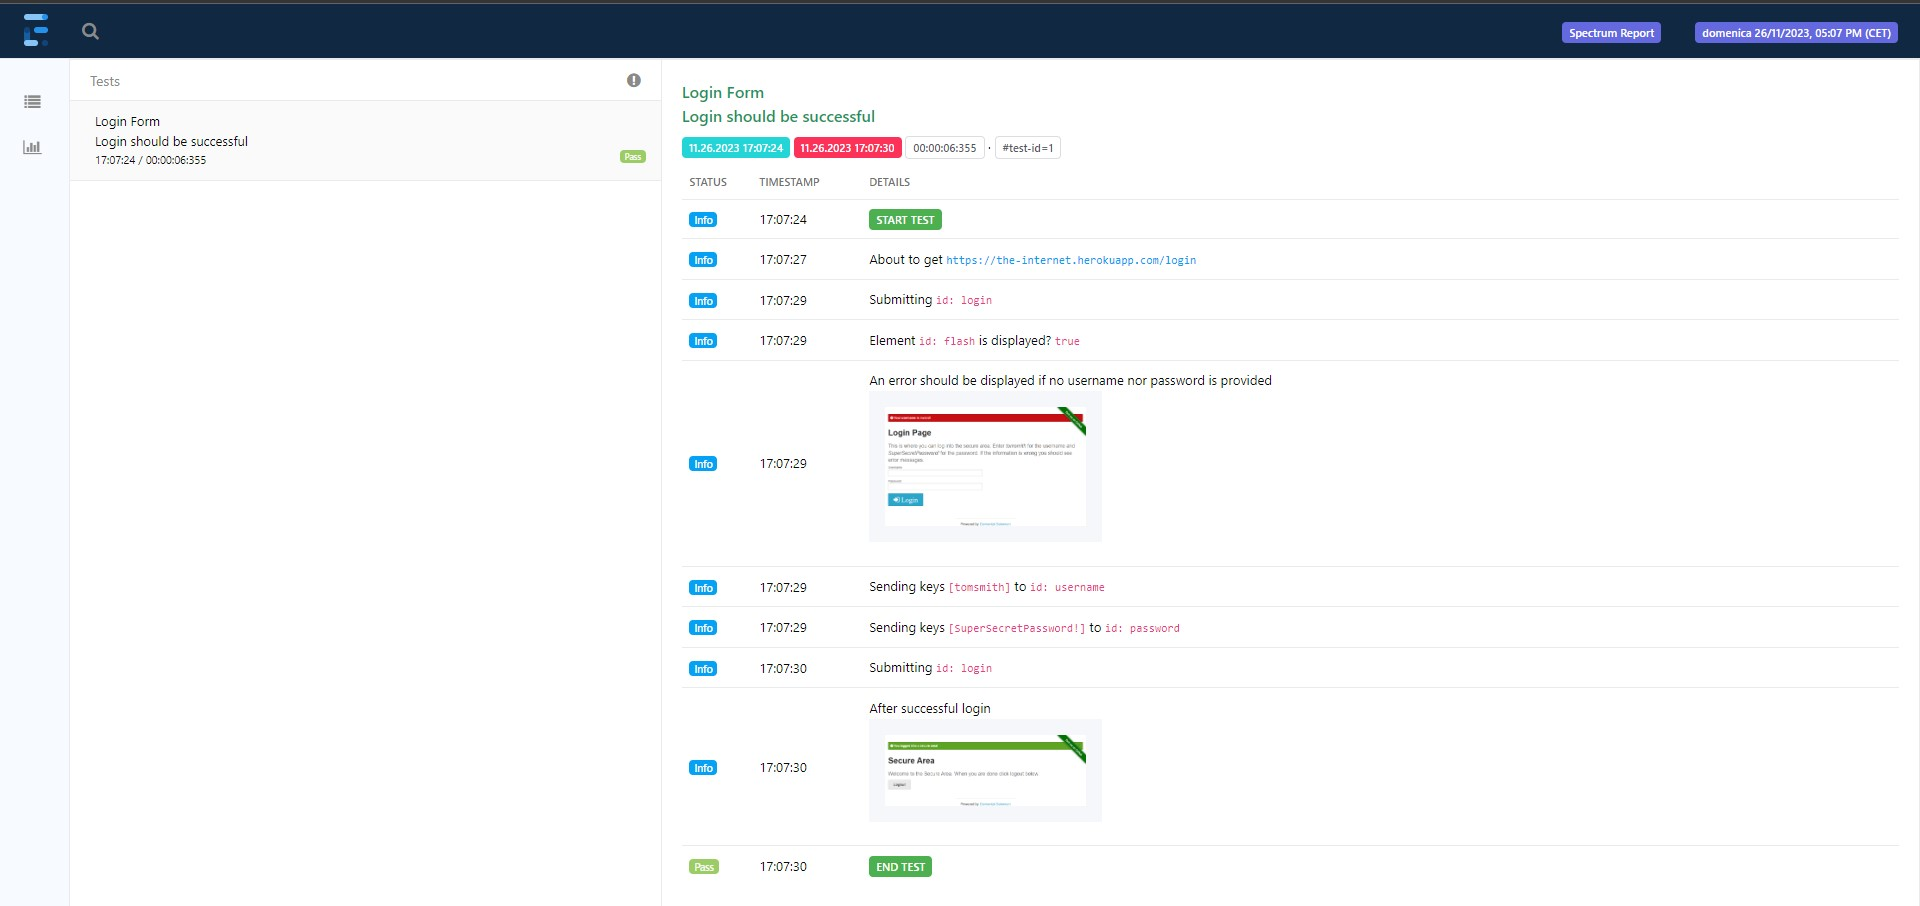
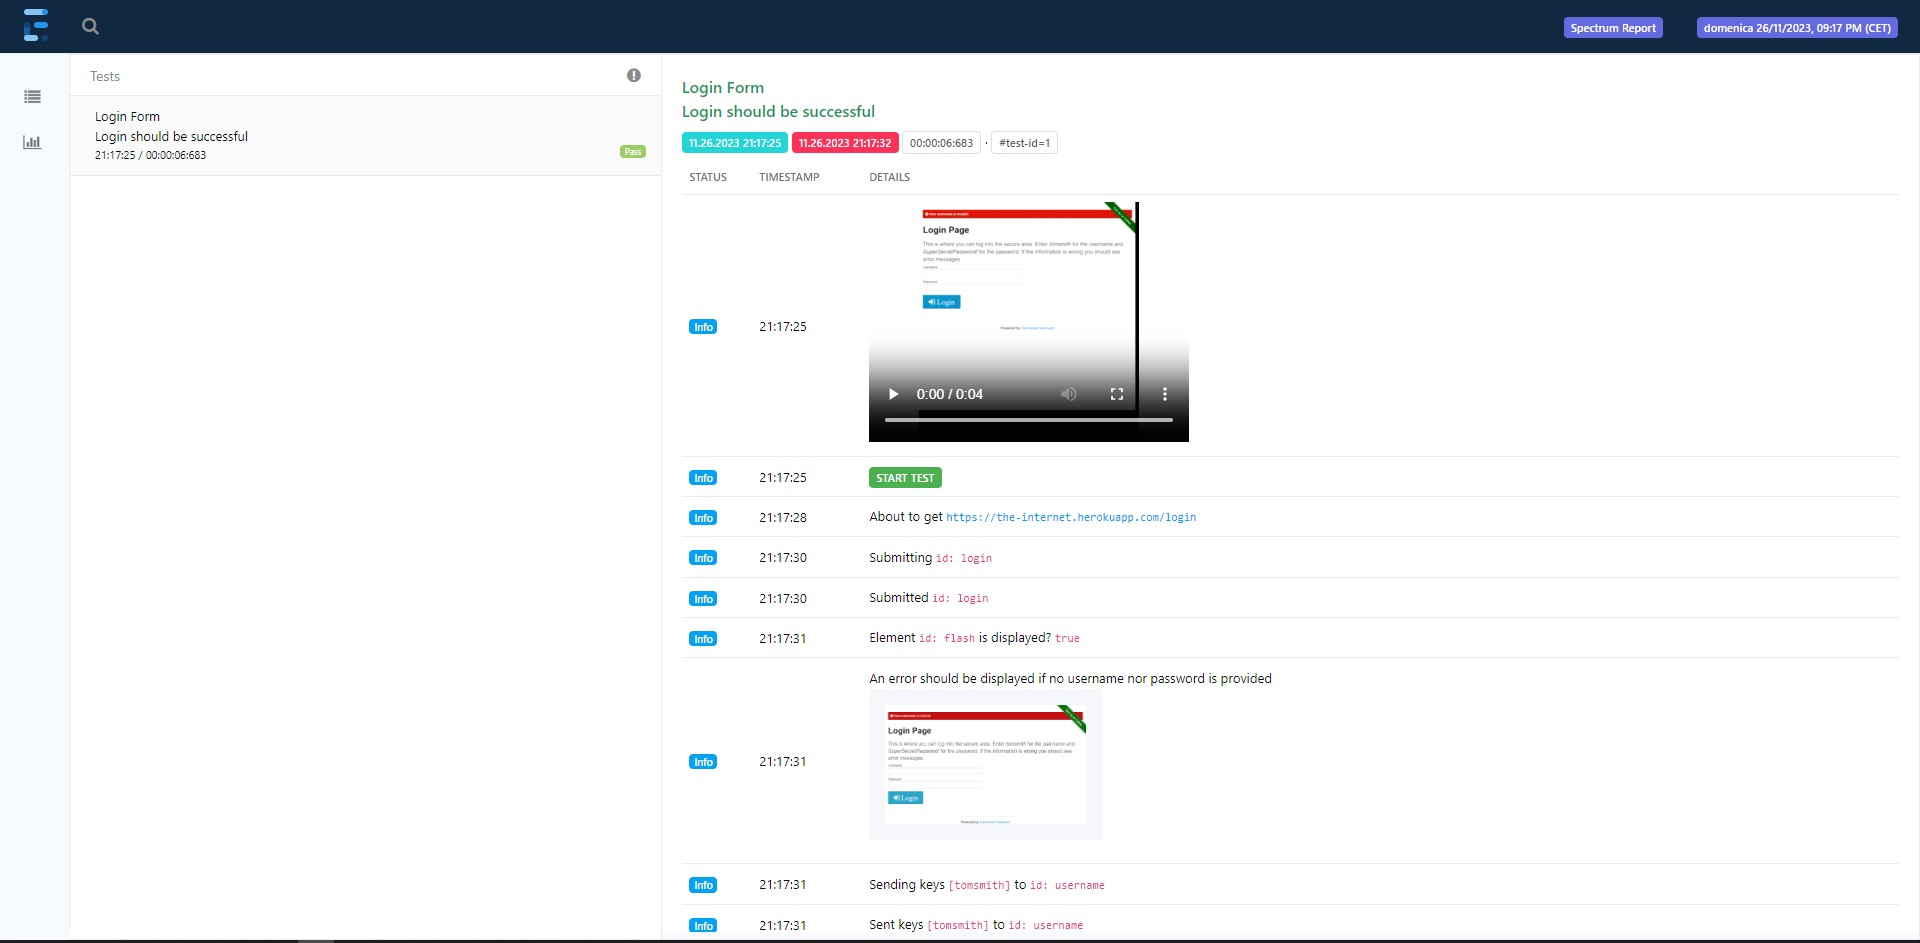
README with execution video

diff --git a/README.md b/README.md
@@ -52,15 +52,14 @@ https://github.com/giulong/spectrum/assets/27963644/f9339a81-ae55-453a-a013-7ad8
 
 > ⚠ JDK<br/>
 > Since Spectrum is compiled with a jdk 17, you need a [jdk 17+](https://jdk.java.net/java-se-ri/17) to be able to run your tests.
-> If you get an `Unsupported major.minor version` exception, the reason is that you're using an incompatible java version.
 
 1. Generate a new project leveraging the [Spectrum Archetype](https://mvnrepository.com/artifact/io.github.giulong/spectrum-archetype) via your IDE or by running this (replacing `<GROUP ID>`, `<ARTIFACT ID>`, `<VERSION>`, and `<DESTINATION>` with actual values):
 
     `mvn archetype:generate -DarchetypeGroupId=io.github.giulong -DarchetypeArtifactId=spectrum-archetype -DarchetypeVersion=LATEST -DinteractiveMode=false -DgroupId=<GROUP ID> -DartifactId=<ARTIFACT ID> -Dversion=<VERSION> -DoutputDirectory=<DESTINATION>`
 2. Run the `src/test/java/<PACKAGE NAME>/tests/LoginFormIT` demo test injected by the archetype. You will see an instance of Chrome starting.
-3. Once the execution is done, you will find the `target/spectrum/reports/spectrum-report-<TIMESTAMP>.html` html report.
+3. Once the execution is done, you will find the `target/spectrum/reports/spectrum-report-<TIMESTAMP>.html` html report with the execution video attached.
 
-Here's a quick overview of the project created by the archetype, along with the report generated after the first execution:
+Here's a quick overview of the project created by the archetype, along with the report and video generated after the first execution:
 
 ![LoginFormIT](src/main/resources/images/login-form-it.jpg)
 ![Extent Report](src/main/resources/images/login-form-it-extent-report.jpg)
